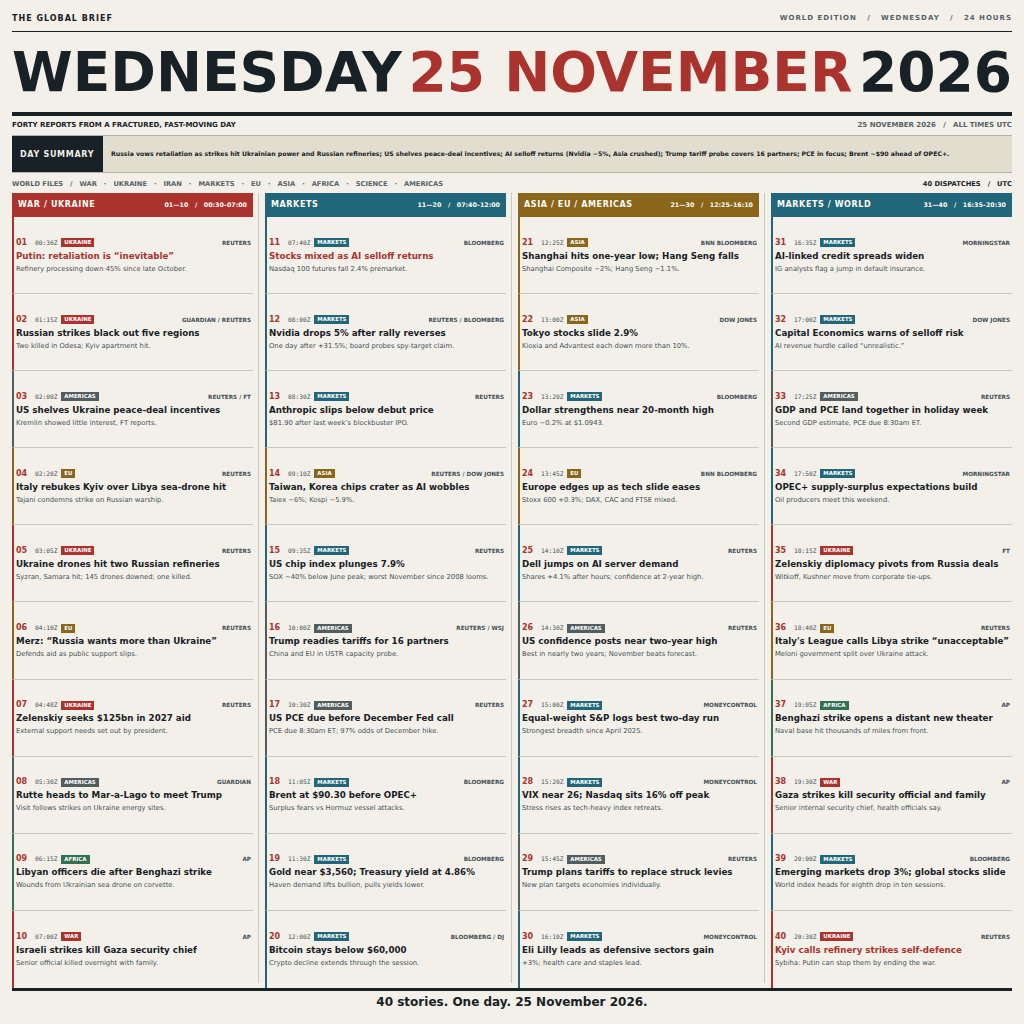
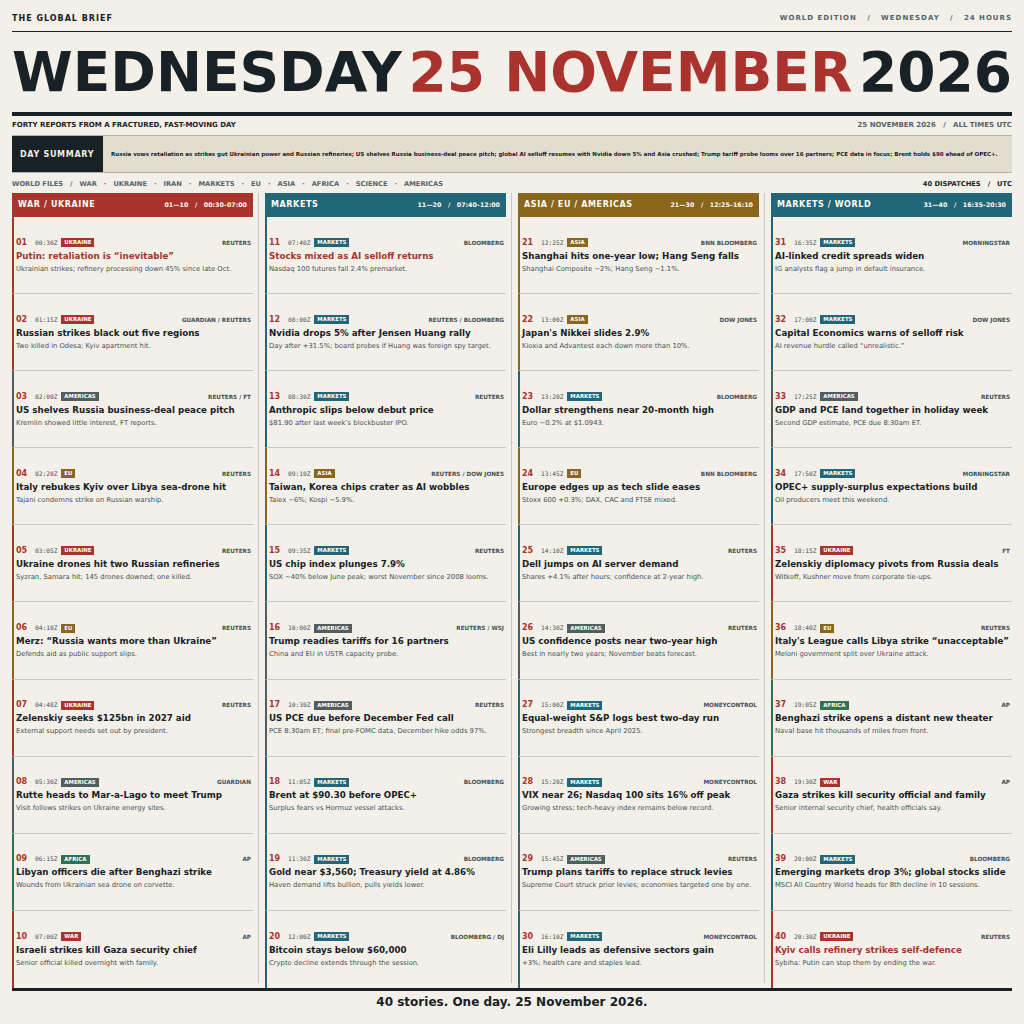
Polish 25 November news image

diff --git a/news.html b/news.html
@@ -106,7 +106,7 @@
       padding: 0 8px;
       flex: 1 1 auto;
       overflow: hidden;
-      font-size: 6.2px;
+      font-size: 5.5px;
       font-weight: 800;
       line-height: 12px;
     }
@@ -124,6 +124,7 @@
       min-width: 0;
       min-height: 0;
       display: grid;
+      /* 1,000px content width: 4 x 241px columns plus 3 x 12px gutters. */
       grid-template-columns: repeat(4, minmax(0, 1fr));
       column-gap: 12px;
     }
@@ -261,14 +262,14 @@
   <div class="edition"><span>THE GLOBAL BRIEF</span><span class="edition-right">WORLD EDITION &nbsp; / &nbsp; WEDNESDAY &nbsp; / &nbsp; 24 HOURS</span></div>
   <h1 aria-label="WEDNESDAY 25 NOVEMBER 2026"><span>WEDNESDAY</span><span class="date">25 NOVEMBER</span><span>2026</span></h1>
   <div class="deck"><span>FORTY REPORTS FROM A FRACTURED, FAST-MOVING DAY</span><span>25 NOVEMBER 2026 &nbsp; / &nbsp; ALL TIMES UTC</span></div>
-  <section class="summary" aria-label="Day summary"><strong>DAY SUMMARY</strong><p>Russia vows retaliation as strikes hit Ukrainian power and Russian refineries; US shelves peace-deal incentives; AI selloff returns (Nvidia −5%, Asia crushed); Trump tariff probe covers 16 partners; PCE in focus; Brent ~$90 ahead of OPEC+.</p></section>
+  <section class="summary" aria-label="Day summary"><strong>DAY SUMMARY</strong><p>Russia vows retaliation as strikes gut Ukrainian power and Russian refineries; US shelves Russia business-deal peace pitch; global AI selloff resumes with Nvidia down 5% and Asia crushed; Trump tariff probe looms over 16 partners; PCE data in focus; Brent holds $90 ahead of OPEC+.</p></section>
   <div class="guide"><span class="topics">WORLD FILES &nbsp; / &nbsp; WAR &nbsp; · &nbsp; UKRAINE &nbsp; · &nbsp; IRAN &nbsp; · &nbsp; MARKETS &nbsp; · &nbsp; EU &nbsp; · &nbsp; ASIA &nbsp; · &nbsp; AFRICA &nbsp; · &nbsp; SCIENCE &nbsp; · &nbsp; AMERICAS</span><span>40 DISPATCHES &nbsp; / &nbsp; UTC</span></div>
   <div class="stories">
     <section class="column" aria-label="Stories 1 to 10, war and markets">
       <h2 class="region war">WAR / UKRAINE <small>01—10 &nbsp; / &nbsp; 00:30–07:00</small></h2>
-      <article class="story war lead"><div class="meta"><span class="number">01</span><time datetime="2026-11-25T00:30:00Z">00:30Z</time><span class="topic ukraine">UKRAINE</span><span class="source">REUTERS</span></div><h3>Putin: retaliation is “inevitable”</h3><p>Refinery processing down 45% since late October.</p></article>
+      <article class="story war lead"><div class="meta"><span class="number">01</span><time datetime="2026-11-25T00:30:00Z">00:30Z</time><span class="topic ukraine">UKRAINE</span><span class="source">REUTERS</span></div><h3>Putin: retaliation is “inevitable”</h3><p>Ukrainian strikes; refinery processing down 45% since late Oct.</p></article>
       <article class="story war"><div class="meta"><span class="number">02</span><time datetime="2026-11-25T01:15:00Z">01:15Z</time><span class="topic ukraine">UKRAINE</span><span class="source">GUARDIAN / REUTERS</span></div><h3>Russian strikes black out five regions</h3><p>Two killed in Odesa; Kyiv apartment hit.</p></article>
-      <article class="story americas"><div class="meta"><span class="number">03</span><time datetime="2026-11-25T02:00:00Z">02:00Z</time><span class="topic">AMERICAS</span><span class="source">REUTERS / FT</span></div><h3>US shelves Ukraine peace-deal incentives</h3><p>Kremlin showed little interest, FT reports.</p></article>
+      <article class="story americas"><div class="meta"><span class="number">03</span><time datetime="2026-11-25T02:00:00Z">02:00Z</time><span class="topic">AMERICAS</span><span class="source">REUTERS / FT</span></div><h3>US shelves Russia business-deal peace pitch</h3><p>Kremlin showed little interest, FT reports.</p></article>
       <article class="story eu"><div class="meta"><span class="number">04</span><time datetime="2026-11-25T02:20:00Z">02:20Z</time><span class="topic eu">EU</span><span class="source">REUTERS</span></div><h3>Italy rebukes Kyiv over Libya sea-drone hit</h3><p>Tajani condemns strike on Russian warship.</p></article>
       <article class="story ukraine"><div class="meta"><span class="number">05</span><time datetime="2026-11-25T03:05:00Z">03:05Z</time><span class="topic ukraine">UKRAINE</span><span class="source">REUTERS</span></div><h3>Ukraine drones hit two Russian refineries</h3><p>Syzran, Samara hit; 145 drones downed; one killed.</p></article>
       <article class="story eu"><div class="meta"><span class="number">06</span><time datetime="2026-11-25T04:10:00Z">04:10Z</time><span class="topic eu">EU</span><span class="source">REUTERS</span></div><h3>Merz: “Russia wants more than Ukraine”</h3><p>Defends aid as public support slips.</p></article>
@@ -281,12 +282,12 @@
     <section class="column" aria-label="Stories 11 to 20, markets">
       <h2 class="region markets">MARKETS <small>11—20 &nbsp; / &nbsp; 07:40–12:00</small></h2>
       <article class="story markets lead"><div class="meta"><span class="number">11</span><time datetime="2026-11-25T07:40:00Z">07:40Z</time><span class="topic markets">MARKETS</span><span class="source">BLOOMBERG</span></div><h3>Stocks mixed as AI selloff returns</h3><p>Nasdaq 100 futures fall 2.4% premarket.</p></article>
-      <article class="story markets"><div class="meta"><span class="number">12</span><time datetime="2026-11-25T08:00:00Z">08:00Z</time><span class="topic markets">MARKETS</span><span class="source">REUTERS / BLOOMBERG</span></div><h3>Nvidia drops 5% after rally reverses</h3><p>One day after +31.5%; board probes spy-target claim.</p></article>
+      <article class="story markets"><div class="meta"><span class="number">12</span><time datetime="2026-11-25T08:00:00Z">08:00Z</time><span class="topic markets">MARKETS</span><span class="source">REUTERS / BLOOMBERG</span></div><h3>Nvidia drops 5% after Jensen Huang rally</h3><p>Day after +31.5%; board probes if Huang was foreign spy target.</p></article>
       <article class="story markets"><div class="meta"><span class="number">13</span><time datetime="2026-11-25T08:30:00Z">08:30Z</time><span class="topic markets">MARKETS</span><span class="source">REUTERS</span></div><h3>Anthropic slips below debut price</h3><p>$81.90 after last week’s blockbuster IPO.</p></article>
       <article class="story asia"><div class="meta"><span class="number">14</span><time datetime="2026-11-25T09:10:00Z">09:10Z</time><span class="topic asia">ASIA</span><span class="source">REUTERS / DOW JONES</span></div><h3>Taiwan, Korea chips crater as AI wobbles</h3><p>Taiex −6%; Kospi −5.9%.</p></article>
       <article class="story markets"><div class="meta"><span class="number">15</span><time datetime="2026-11-25T09:35:00Z">09:35Z</time><span class="topic markets">MARKETS</span><span class="source">REUTERS</span></div><h3>US chip index plunges 7.9%</h3><p>SOX ~40% below June peak; worst November since 2008 looms.</p></article>
       <article class="story americas"><div class="meta"><span class="number">16</span><time datetime="2026-11-25T10:00:00Z">10:00Z</time><span class="topic">AMERICAS</span><span class="source">REUTERS / WSJ</span></div><h3>Trump readies tariffs for 16 partners</h3><p>China and EU in USTR capacity probe.</p></article>
-      <article class="story americas"><div class="meta"><span class="number">17</span><time datetime="2026-11-25T10:30:00Z">10:30Z</time><span class="topic">AMERICAS</span><span class="source">REUTERS</span></div><h3>US PCE due before December Fed call</h3><p>PCE due 8:30am ET; 97% odds of December hike.</p></article>
+      <article class="story americas"><div class="meta"><span class="number">17</span><time datetime="2026-11-25T10:30:00Z">10:30Z</time><span class="topic">AMERICAS</span><span class="source">REUTERS</span></div><h3>US PCE due before December Fed call</h3><p>PCE 8:30am ET; final pre-FOMC data, December hike odds 97%.</p></article>
       <article class="story markets"><div class="meta"><span class="number">18</span><time datetime="2026-11-25T11:05:00Z">11:05Z</time><span class="topic markets">MARKETS</span><span class="source">BLOOMBERG</span></div><h3>Brent at $90.30 before OPEC+</h3><p>Surplus fears vs Hormuz vessel attacks.</p></article>
       <article class="story markets"><div class="meta"><span class="number">19</span><time datetime="2026-11-25T11:30:00Z">11:30Z</time><span class="topic markets">MARKETS</span><span class="source">BLOOMBERG</span></div><h3>Gold near $3,560; Treasury yield at 4.86%</h3><p>Haven demand lifts bullion, pulls yields lower.</p></article>
       <article class="story markets"><div class="meta"><span class="number">20</span><time datetime="2026-11-25T12:00:00Z">12:00Z</time><span class="topic markets">MARKETS</span><span class="source">BLOOMBERG / DJ</span></div><h3>Bitcoin stays below $60,000</h3><p>Crypto decline extends through the session.</p></article>
@@ -295,14 +296,14 @@
     <section class="column" aria-label="Stories 21 to 30, Asia, Europe and the Americas">
       <h2 class="region asia">ASIA / EU / AMERICAS <small>21—30 &nbsp; / &nbsp; 12:25–16:10</small></h2>
       <article class="story asia"><div class="meta"><span class="number">21</span><time datetime="2026-11-25T12:25:00Z">12:25Z</time><span class="topic asia">ASIA</span><span class="source">BNN BLOOMBERG</span></div><h3>Shanghai hits one-year low; Hang Seng falls</h3><p>Shanghai Composite −2%; Hang Seng −1.1%.</p></article>
-      <article class="story asia"><div class="meta"><span class="number">22</span><time datetime="2026-11-25T13:00:00Z">13:00Z</time><span class="topic asia">ASIA</span><span class="source">DOW JONES</span></div><h3>Tokyo stocks slide 2.9%</h3><p>Kioxia and Advantest each down more than 10%.</p></article>
+      <article class="story asia"><div class="meta"><span class="number">22</span><time datetime="2026-11-25T13:00:00Z">13:00Z</time><span class="topic asia">ASIA</span><span class="source">DOW JONES</span></div><h3>Japan's Nikkei slides 2.9%</h3><p>Kioxia and Advantest each down more than 10%.</p></article>
       <article class="story markets"><div class="meta"><span class="number">23</span><time datetime="2026-11-25T13:20:00Z">13:20Z</time><span class="topic markets">MARKETS</span><span class="source">BLOOMBERG</span></div><h3>Dollar strengthens near 20-month high</h3><p>Euro −0.2% at $1.0943.</p></article>
       <article class="story eu"><div class="meta"><span class="number">24</span><time datetime="2026-11-25T13:45:00Z">13:45Z</time><span class="topic eu">EU</span><span class="source">BNN BLOOMBERG</span></div><h3>Europe edges up as tech slide eases</h3><p>Stoxx 600 +0.3%; DAX, CAC and FTSE mixed.</p></article>
       <article class="story markets"><div class="meta"><span class="number">25</span><time datetime="2026-11-25T14:10:00Z">14:10Z</time><span class="topic markets">MARKETS</span><span class="source">REUTERS</span></div><h3>Dell jumps on AI server demand</h3><p>Shares +4.1% after hours; confidence at 2-year high.</p></article>
       <article class="story americas"><div class="meta"><span class="number">26</span><time datetime="2026-11-25T14:30:00Z">14:30Z</time><span class="topic">AMERICAS</span><span class="source">REUTERS</span></div><h3>US confidence posts near two-year high</h3><p>Best in nearly two years; November beats forecast.</p></article>
       <article class="story markets"><div class="meta"><span class="number">27</span><time datetime="2026-11-25T15:00:00Z">15:00Z</time><span class="topic markets">MARKETS</span><span class="source">MONEYCONTROL</span></div><h3>Equal-weight S&amp;P logs best two-day run</h3><p>Strongest breadth since April 2025.</p></article>
-      <article class="story markets"><div class="meta"><span class="number">28</span><time datetime="2026-11-25T15:20:00Z">15:20Z</time><span class="topic markets">MARKETS</span><span class="source">MONEYCONTROL</span></div><h3>VIX near 26; Nasdaq sits 16% off peak</h3><p>Stress rises as tech-heavy index retreats.</p></article>
-      <article class="story americas"><div class="meta"><span class="number">29</span><time datetime="2026-11-25T15:45:00Z">15:45Z</time><span class="topic">AMERICAS</span><span class="source">REUTERS</span></div><h3>Trump plans tariffs to replace struck levies</h3><p>New plan targets economies individually.</p></article>
+      <article class="story markets"><div class="meta"><span class="number">28</span><time datetime="2026-11-25T15:20:00Z">15:20Z</time><span class="topic markets">MARKETS</span><span class="source">MONEYCONTROL</span></div><h3>VIX near 26; Nasdaq 100 sits 16% off peak</h3><p>Growing stress; tech-heavy index remains below record.</p></article>
+      <article class="story americas"><div class="meta"><span class="number">29</span><time datetime="2026-11-25T15:45:00Z">15:45Z</time><span class="topic">AMERICAS</span><span class="source">REUTERS</span></div><h3>Trump plans tariffs to replace struck levies</h3><p>Supreme Court struck prior levies; economies targeted one by one.</p></article>
       <article class="story markets"><div class="meta"><span class="number">30</span><time datetime="2026-11-25T16:10:00Z">16:10Z</time><span class="topic markets">MARKETS</span><span class="source">MONEYCONTROL</span></div><h3>Eli Lilly leads as defensive sectors gain</h3><p>+3%; health care and staples lead.</p></article>
     </section>
 
@@ -316,7 +317,7 @@
       <article class="story eu"><div class="meta"><span class="number">36</span><time datetime="2026-11-25T18:40:00Z">18:40Z</time><span class="topic eu">EU</span><span class="source">REUTERS</span></div><h3>Italy's League calls Libya strike “unacceptable”</h3><p>Meloni government split over Ukraine attack.</p></article>
       <article class="story africa"><div class="meta"><span class="number">37</span><time datetime="2026-11-25T19:05:00Z">19:05Z</time><span class="topic africa">AFRICA</span><span class="source">AP</span></div><h3>Benghazi strike opens a distant new theater</h3><p>Naval base hit thousands of miles from front.</p></article>
       <article class="story war"><div class="meta"><span class="number">38</span><time datetime="2026-11-25T19:30:00Z">19:30Z</time><span class="topic war">WAR</span><span class="source">AP</span></div><h3>Gaza strikes kill security official and family</h3><p>Senior internal security chief, health officials say.</p></article>
-      <article class="story markets"><div class="meta"><span class="number">39</span><time datetime="2026-11-25T20:00:00Z">20:00Z</time><span class="topic markets">MARKETS</span><span class="source">BLOOMBERG</span></div><h3>Emerging markets drop 3%; global stocks slide</h3><p>World index heads for eighth drop in ten sessions.</p></article>
+      <article class="story markets"><div class="meta"><span class="number">39</span><time datetime="2026-11-25T20:00:00Z">20:00Z</time><span class="topic markets">MARKETS</span><span class="source">BLOOMBERG</span></div><h3>Emerging markets drop 3%; global stocks slide</h3><p>MSCI All Country World heads for 8th decline in 10 sessions.</p></article>
       <article class="story ukraine lead"><div class="meta"><span class="number">40</span><time datetime="2026-11-25T20:30:00Z">20:30Z</time><span class="topic ukraine">UKRAINE</span><span class="source">REUTERS</span></div><h3>Kyiv calls refinery strikes self-defence</h3><p>Sybiha: Putin can stop them by ending the war.</p></article>
     </section>
   </div>
